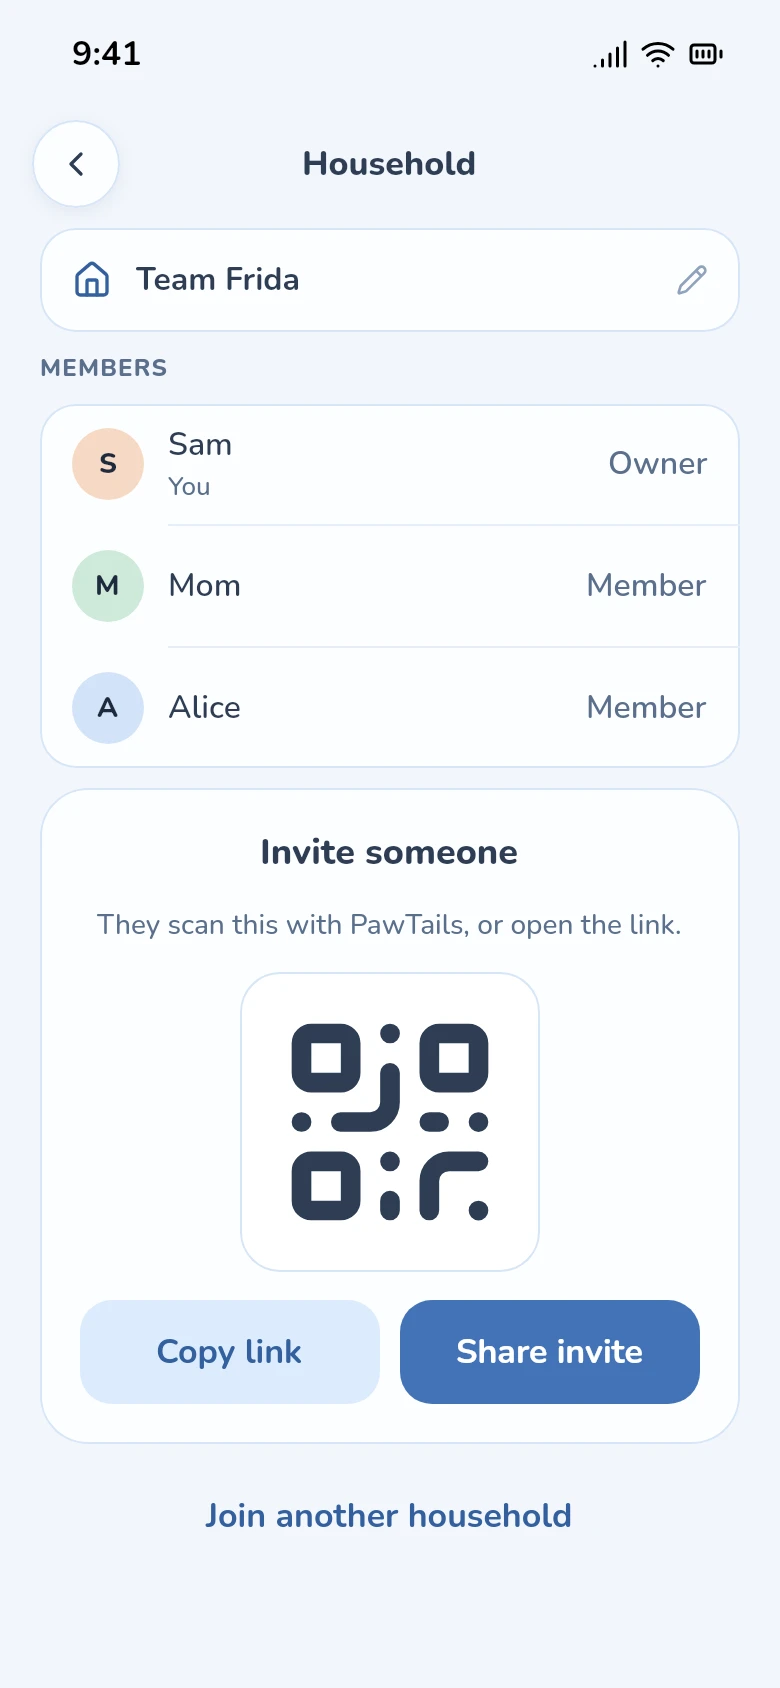
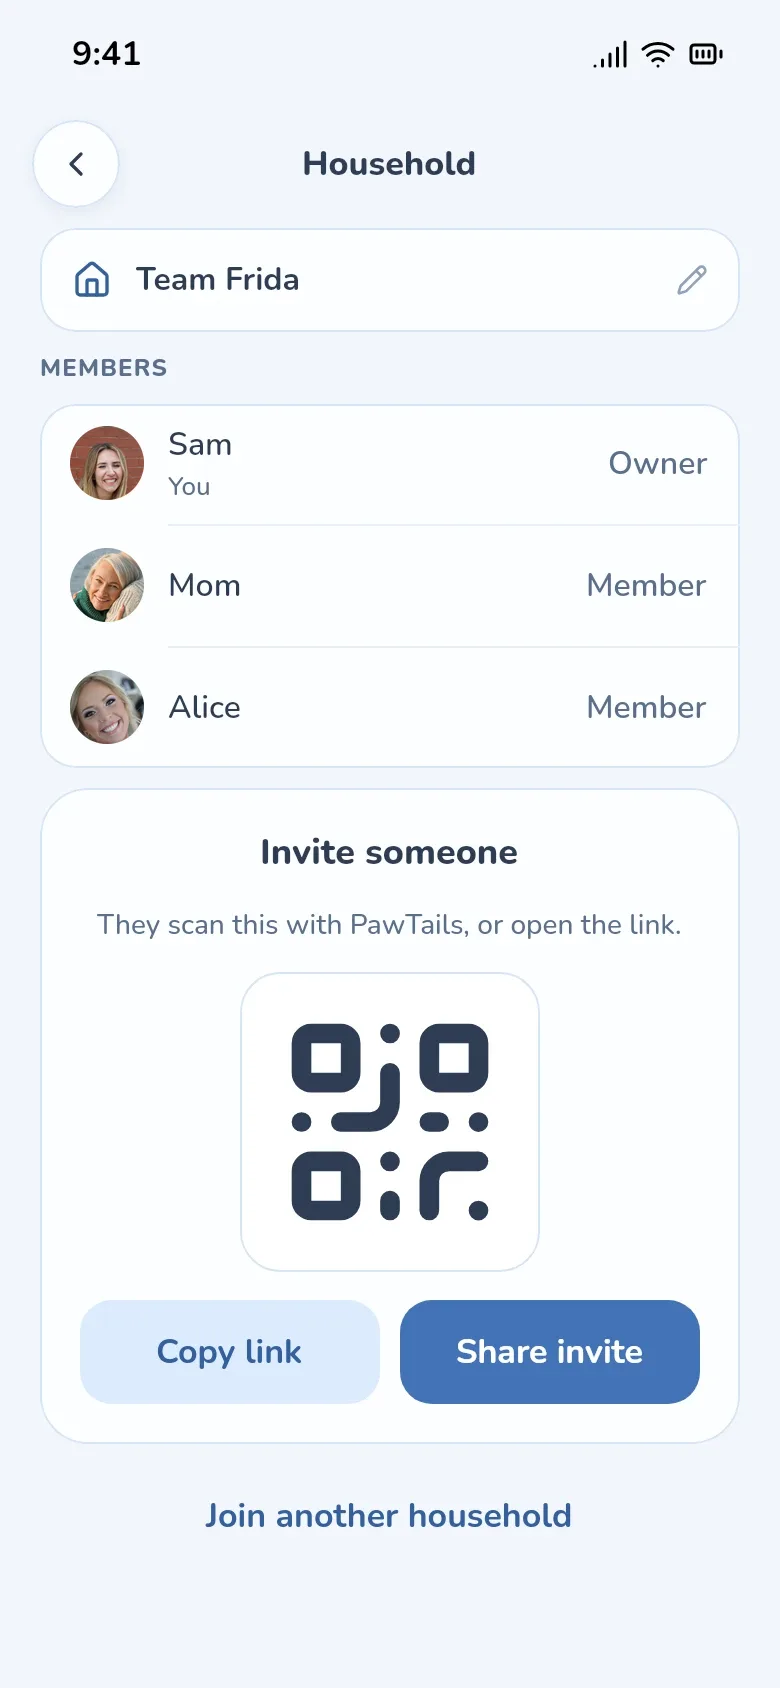
Show member photos instead of initials on the Household screenshot
Same CC0 StockSnap photos as the Today screenshot: GATLQFNN0H (Sam/You), 3IB4WLHMN6 (Mom), JDXGDT9LUM (Alice).

Changed region(s): [[0.0923, 0.2464, 0.1846, 0.4621]]

diff --git a/index.html b/index.html
@@ -66,7 +66,7 @@
         <figure class="shot"><img src="/img/screen-pet.webp?v=4" alt="Pet screen with today’s sniff and walk rings and Frida’s world" width="390" height="844" /></figure>
         <figure class="shot shot-raised"><img src="/img/screen-today.webp?v=4" alt="Today: feeding done by Alice at 7:15, a walk done by you, medicine still to do" width="390" height="848" /></figure>
         <figure class="shot"><img src="/img/screen-walk-saved.webp?v=4" alt="Walk saved: both rings closed" width="390" height="844" loading="lazy" /></figure>
-        <figure class="shot shot-raised"><img src="/img/screen-household.webp?v=2" alt="Household screen with members and an invite QR code" width="390" height="844" loading="lazy" /></figure>
+        <figure class="shot shot-raised"><img src="/img/screen-household.webp?v=3" alt="Household screen with members and an invite QR code" width="390" height="844" loading="lazy" /></figure>
       </div>
     </section>
 
@@ -143,7 +143,7 @@
         </ul>
       </div>
       <div class="split-visual">
-        <figure class="shot"><img src="/img/screen-household.webp?v=2" alt="" width="390" height="844" loading="lazy" /></figure>
+        <figure class="shot"><img src="/img/screen-household.webp?v=3" alt="" width="390" height="844" loading="lazy" /></figure>
       </div>
     </section>
 
